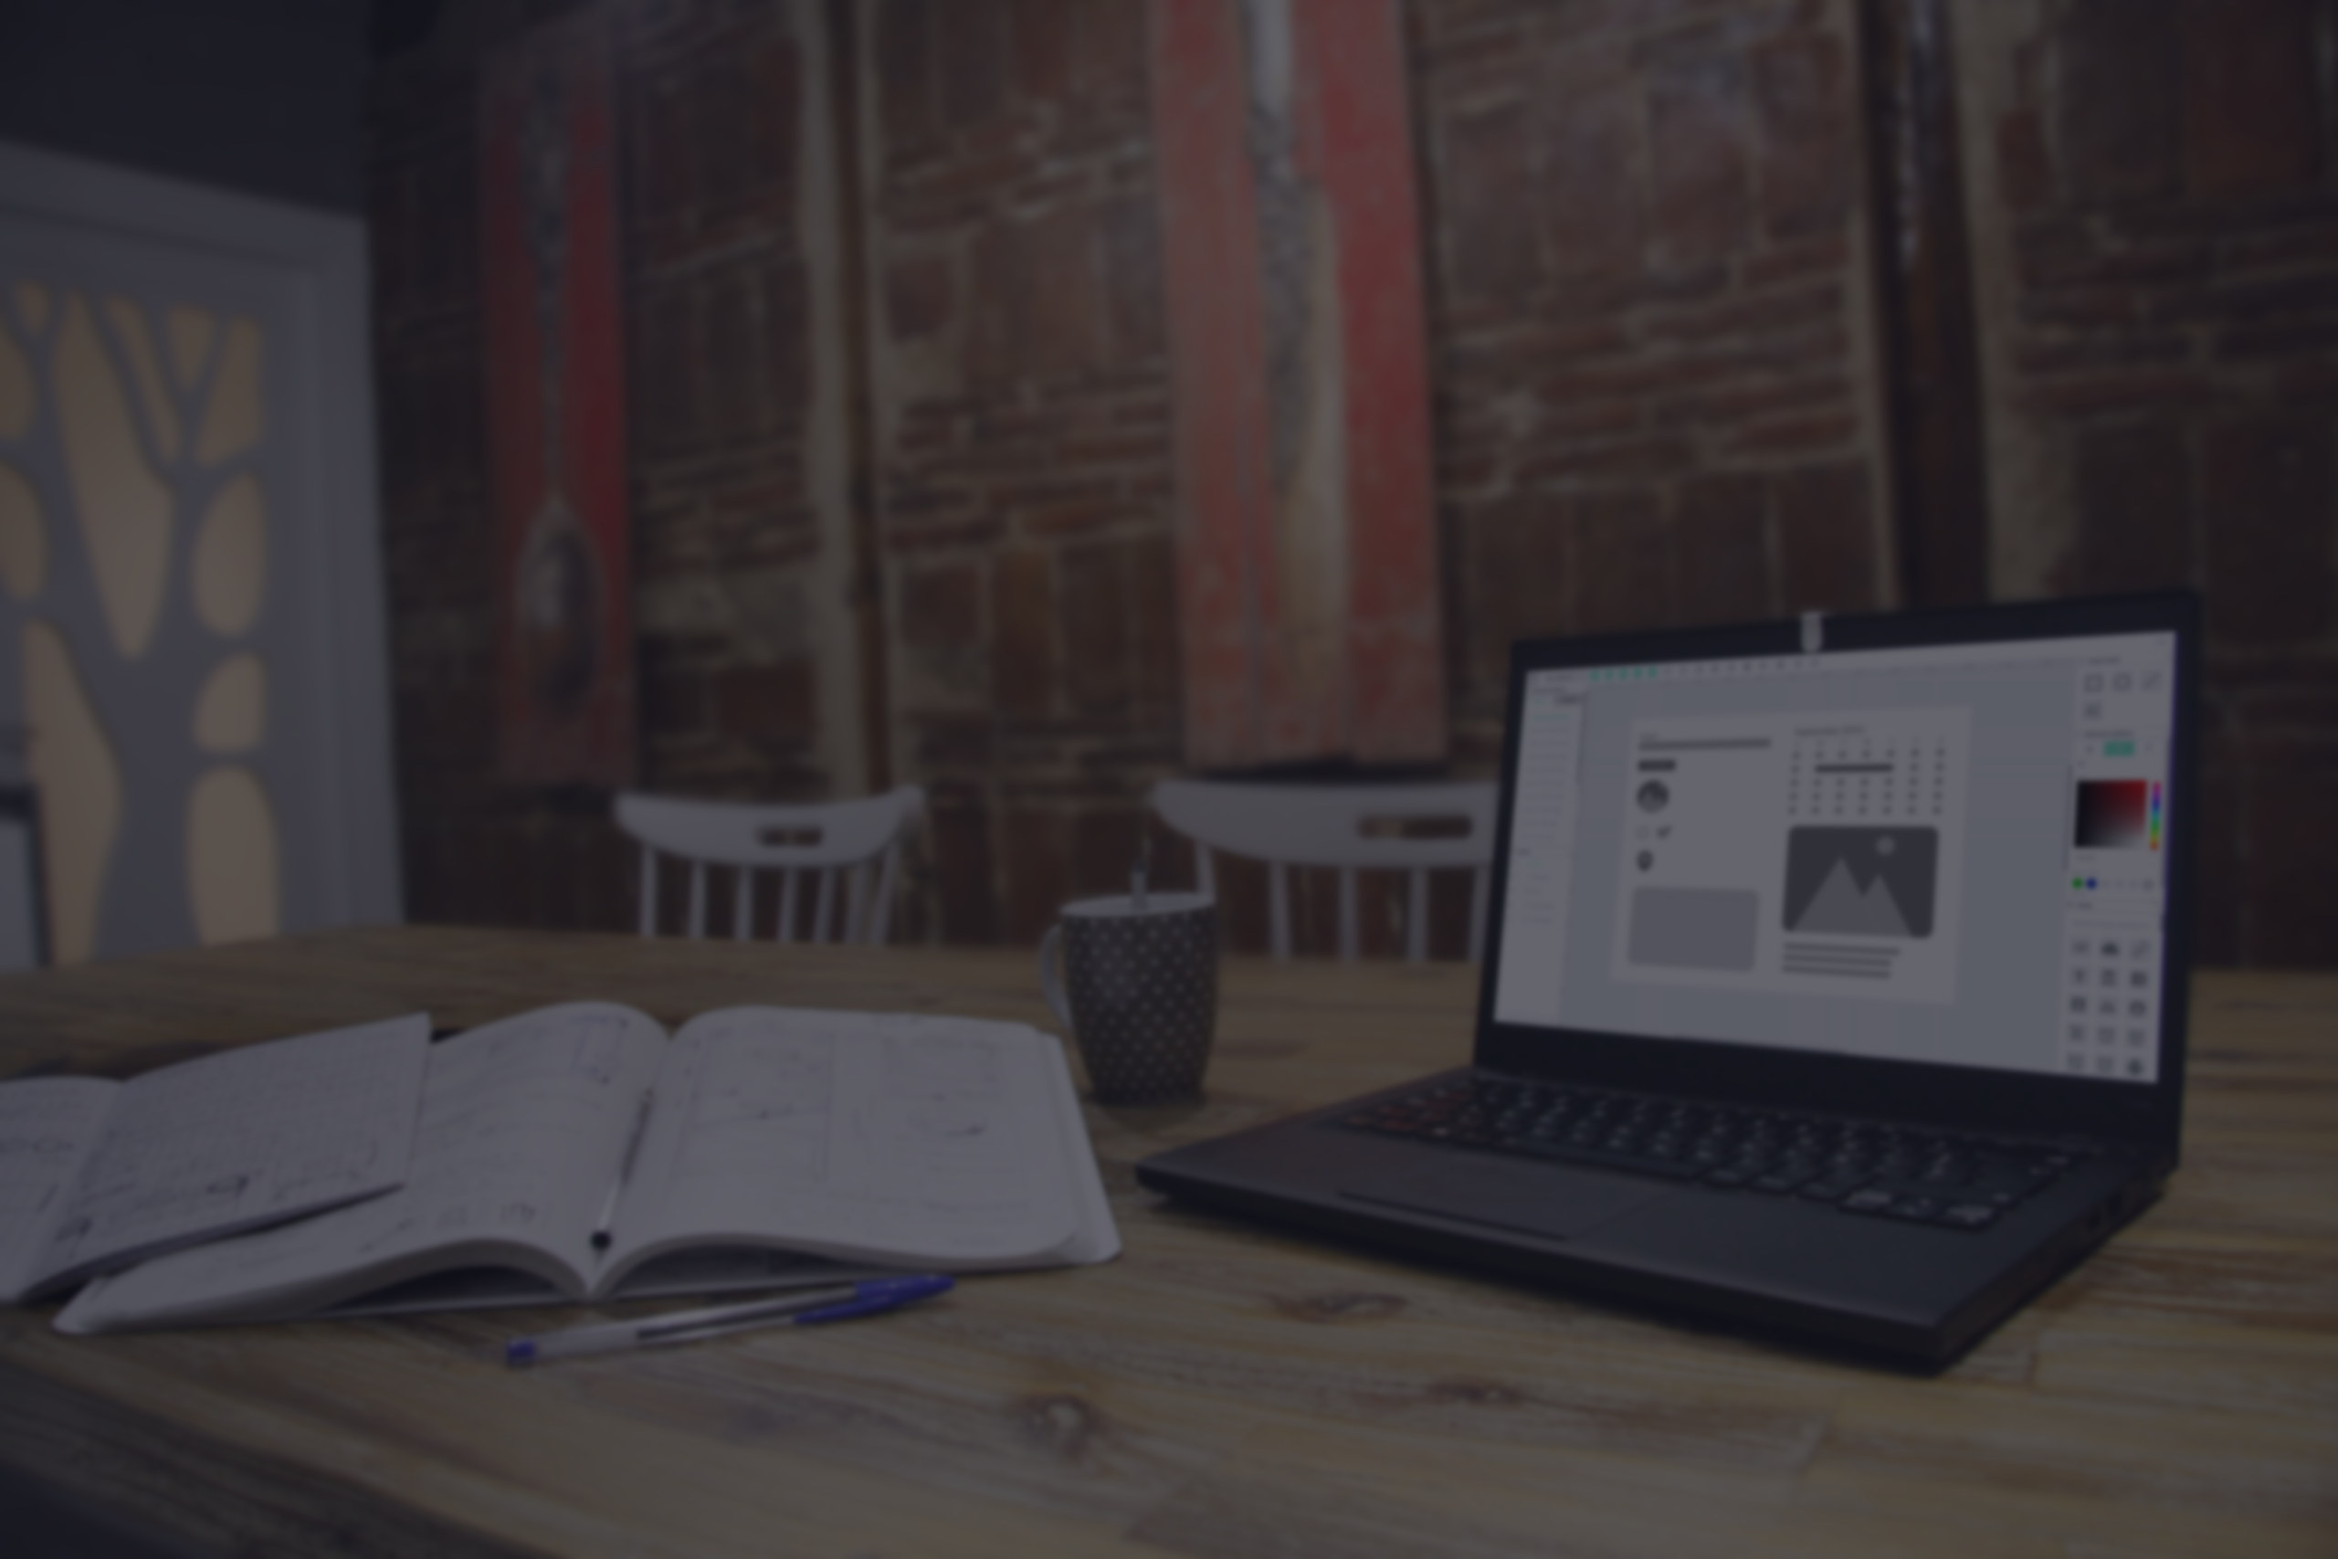
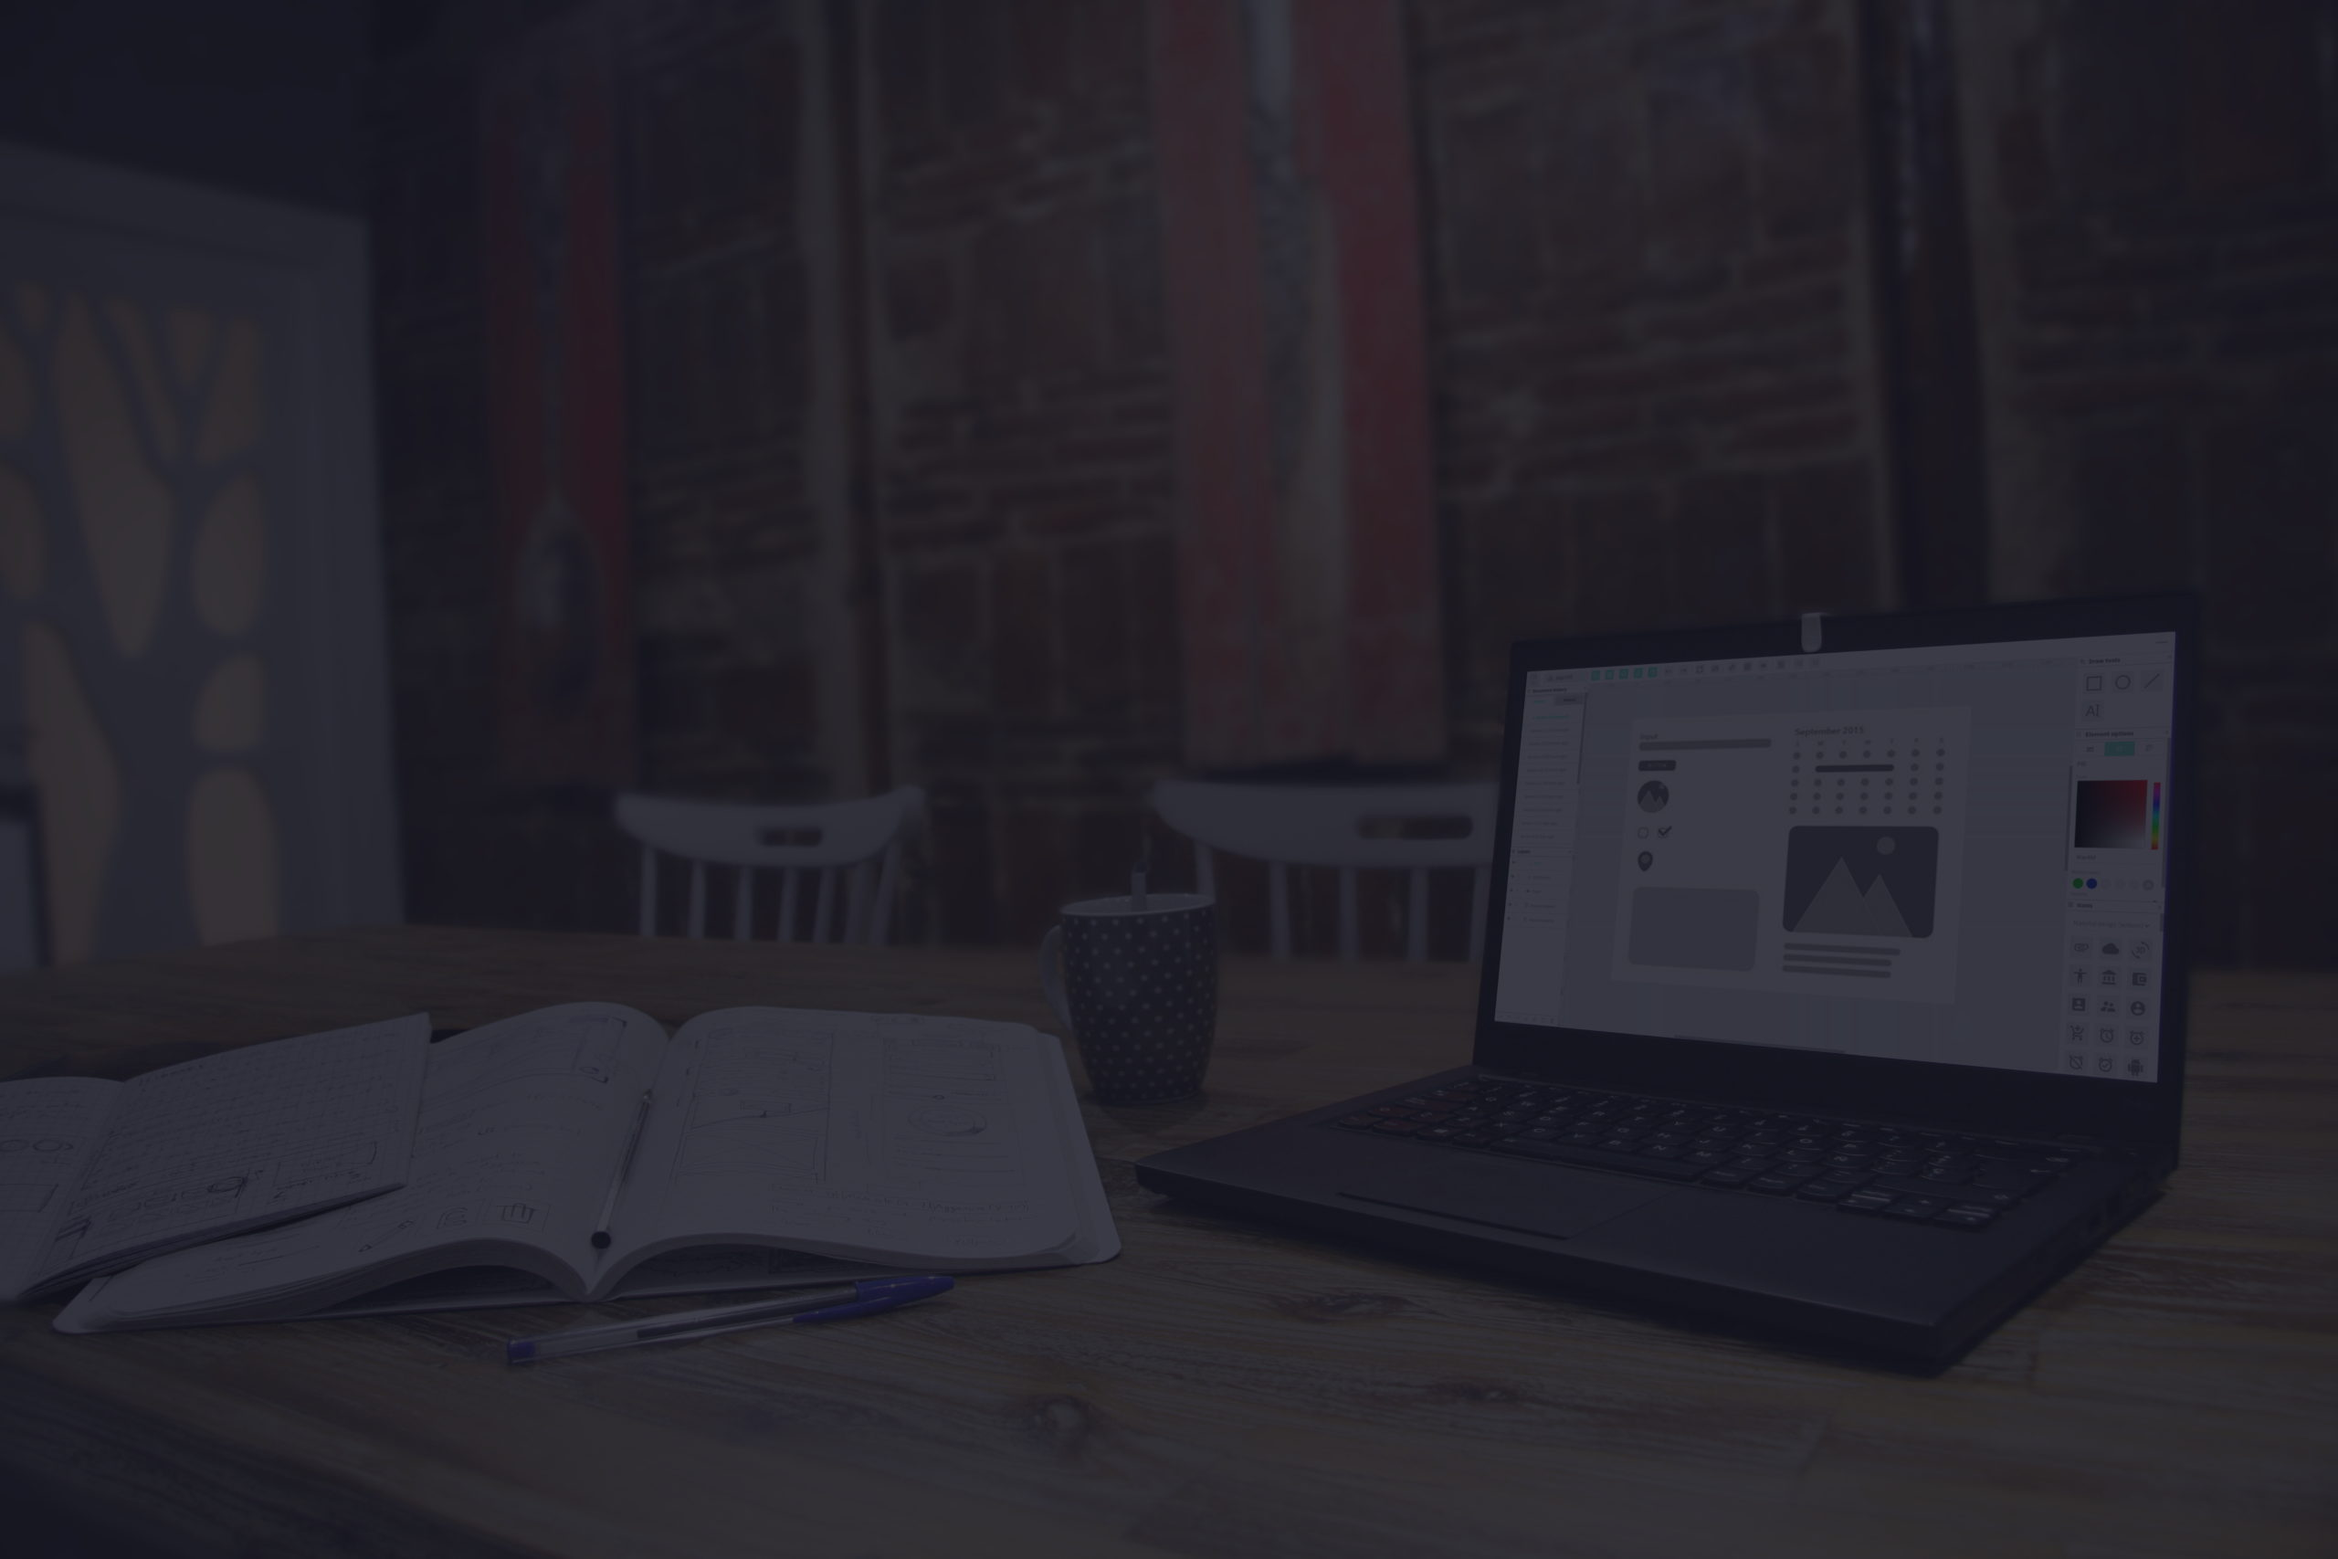
add optimized login img bg and minor css changes

diff --git a/resources/styles/layouts/login.scss b/resources/styles/layouts/login.scss
@@ -42,6 +42,7 @@
         border-color: $color-gray;
         color: $color-gray-lighter;
         font-size: $fs18;
+        margin-bottom: $big*2;
 
         @include placeholder {
           color: $color-gray;

diff --git a/resources/styles/partials/workspace-bar.scss b/resources/styles/partials/workspace-bar.scss
@@ -107,6 +107,7 @@
         border-radius: $br-small;
         cursor: pointer;
         display: flex;
+        flex-shrink: 0;
         height: 30px;
         justify-content: center;
         margin: 0 $small;

diff --git a/resources/styles/partials/sidebar-sitemap.scss b/resources/styles/partials/sidebar-sitemap.scss
@@ -57,7 +57,7 @@
       border-bottom: 1px solid $soft-ui-border;
       display: flex;
       flex-direction: row;
-      padding: $x-small;
+      padding: $small;
       width: 100%;
 
       .page-icon {
